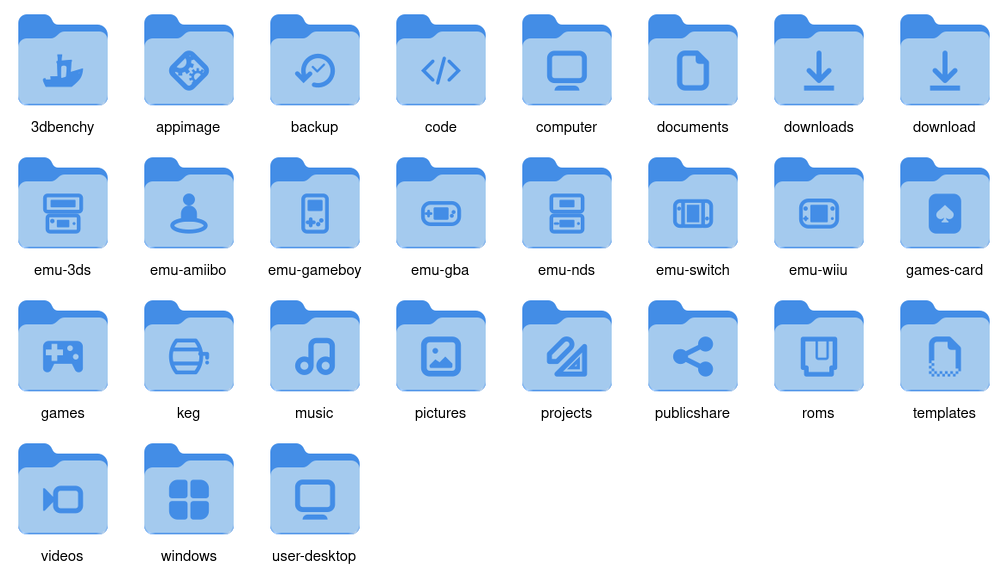
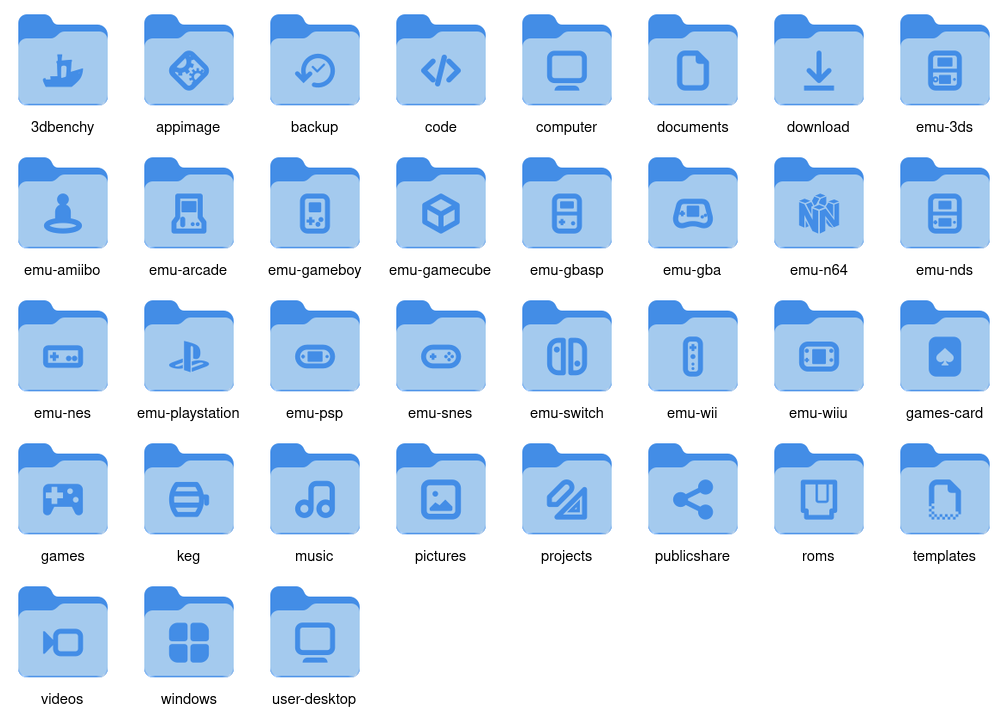
Redraw consoles at 2px, add NES/SNES/N64/GameCube/Wii/PlayStation/PSP/arcade/GBA SP, clip check
- all own glyphs use Adwaita's 2px stroke; own code brackets
- handhelds share one body style with a hinge line
- PlayStation (Simple Icons, CC0) and N64 (file-icons, ISC) logos
- build.py reads glyph viewBox and warns when a glyph is clipped
- drop unused folder-downloads alias

diff --git a/build.py b/build.py
@@ -33,7 +33,6 @@ ICONS = {
     "folder-pictures": "adw:folder-pictures",
     "folder-documents": "adw:folder-documents",
     "folder-download": "adw:folder-download",
-    "folder-downloads": "adw:folder-download",
     "user-desktop": "adw:video-display",          # Adwaita's own desktop glyph is a folder-in-folder
     "folder-templates": "adw:folder-templates",
     "folder-publicshare": "adw:folder-publicshare",
@@ -42,15 +41,25 @@ ICONS = {
     # consoles (original line drawings in glyphs/, no logos)
     "folder-emu-gameboy": "own:gameboy",
     "folder-emu-gba": "own:gba",
+    "folder-emu-gbasp": "own:gbasp",
     "folder-emu-nds": "own:nds",
     "folder-emu-3ds": "own:3ds",
     "folder-emu-switch": "own:switch",
     "folder-emu-wiiu": "own:wiiu",
     "folder-emu-amiibo": "own:amiibo",
+    "folder-emu-nes": "own:nes",
+    "folder-emu-snes": "own:snes",
+    "folder-emu-n64": "own:logo-n64",
+    "folder-emu-gamecube": "own:gamecube",
+    "folder-emu-wii": "own:wii",
+    "folder-emu-playstation": "own:logo-playstation",
+    "folder-emu-psp": "own:psp",
+    "folder-emu-arcade": "own:arcade",
+    "folder-code": "own:code",                    # MoreWaita's brackets are thinner than everything else
     "folder-keg": "own:keg",                      # Homebrew / Decky "homebrew" folder
     # MoreWaita icons re-scaled to match (MoreWaita draws emblems in a 32px box, Adwaita glyphs fill ~47px)
     **{n: f"mw:{n}" for n in [
-        "folder-projects", "folder-games", "folder-backup", "folder-3dbenchy", "folder-code",
+        "folder-projects", "folder-games", "folder-backup", "folder-3dbenchy",
         "folder-games-card", "folder-roms", "folder-computer", "folder-windows",
     ]},
 }
@@ -81,12 +90,15 @@ def glyph_markup(spec):
         f = hits[0]
     else:
         f = HERE / "glyphs" / f"{name}.svg"
-    inner = re.search(r"<svg[^>]*>(.*)</svg>", f.read_text(), re.S).group(1)
+    m = re.search(r"<svg([^>]*)>(.*)</svg>", f.read_text(), re.S)
+    vb = re.search(r'viewBox="([^"]+)"', m.group(1))
+    viewbox = vb.group(1) if vb else "0 0 16 16"  # logos come in other sizes; measuring rescales them
+    inner = m.group(2)
     inner = re.sub(r'\sfill="#[0-9a-fA-F]+"', "", inner)  # drop Adwaita's hardcoded #2e3436
     inner = inner.replace("currentColor", COLOR)
     x, y, s = GLYPH_BOX
-    # nested <svg> clips to the 16x16 box: some Adwaita glyphs hide extra drawings outside it
-    return (f'<svg xmlns="{SVGNS}" x="{x}" y="{y}" width="{s}" height="{s}" viewBox="0 0 16 16" '
+    # nested <svg> clips to the glyph's box: some Adwaita glyphs hide extra drawings outside it
+    return (f'<svg xmlns="{SVGNS}" x="{x}" y="{y}" width="{s}" height="{s}" viewBox="{viewbox}" '
             f'overflow="hidden"><g fill="{COLOR}">{inner}</g></svg>')
 
 
@@ -128,6 +140,11 @@ def main():
 
     icons = {n: emblem(s, a.morewaita) for n, s in ICONS.items()}
     boxes = {n: measure(*e) for n, e in icons.items()}
+    for n, (defs, body) in icons.items():  # warn about glyphs drawn past their grid (they get cut off)
+        if 'overflow="hidden"' in body and ICONS[n].startswith("own:"):
+            free = measure(defs, body.replace('overflow="hidden"', 'overflow="visible"'))
+            if any(abs(a - b) > 0.3 for a, b in zip(free, boxes[n])):
+                print(f"  WARNING {n}: {ICONS[n]} reaches past the 16px grid and is clipped", file=sys.stderr)
     target = max(boxes[REF][2:])
 
     places = a.out / "scalable/places"

diff --git a/CLAUDE.md b/CLAUDE.md
@@ -7,7 +7,7 @@ An add-on GNOME icon theme, `MoreWaita-Folders` (inherits MoreWaita → Adwaita 
 
 ## Files
 - `build.py`: generator. The `ICONS` dict is the only thing you usually edit.
-- `glyphs/*.svg`: own 16×16 emblems, drawn with `currentColor`. Strokes with a width of 1.5, round joins and caps.
+- `glyphs/*.svg`: own emblems on a 16×16 grid, drawn with `currentColor`, 2px strokes (Adwaita's weight), round joins and caps. Keep the outline inside 1..15, or the stroke gets clipped. `logo-*.svg` keep their original viewBox; `build.py` reads it.
 - `install.sh`: clones or updates MoreWaita into `.cache/`, builds, installs to `~/.local/share/icons/`, and sets gsettings. `--no-activate` skips gsettings.
 - `apply-folder-icons.sh` + `folders.local.conf` (the user's real list, gitignored) or `folders.conf` (a generic example): set `metadata::custom-icon-name` on folders via `gio`. Config lines are `<icon> <path>`, with the path relative to `$HOME`. Never put the user's personal folder names into the committed `folders.conf`.
 - `preview.sh`: writes `build/preview.png`, a contact sheet of all built icons. Look at it after every glyph change.
@@ -32,5 +32,5 @@ An add-on GNOME icon theme, `MoreWaita-Folders` (inherits MoreWaita → Adwaita 
 
 ## Don'ts
 - Don't commit MoreWaita or Adwaita files, or generated icons, apart from `docs/preview.png`. They're fetched or read at build time.
-- Don't use real console or company logos in `glyphs/`. Use simple device outlines only.
+- Logos (`glyphs/logo-*.svg`) only from permissively licensed sets (Simple Icons CC0, file-icons ISC, ...). Keep the source/licence/trademark comment at the top of the file. Everything else in `glyphs/` is drawn in-house.
 - Don't install system-wide, and don't touch `/usr`. Everything goes in `~/.local/share/icons`.

diff --git a/README.md b/README.md
@@ -53,4 +53,4 @@ rm -rf ~/.local/share/icons/MoreWaita-Folders ~/.local/share/icons/MoreWaita
 
 ## License
 
-GPL-3.0, like MoreWaita. Uses MoreWaita's folder shape and emblems, plus Adwaita symbolic glyphs (CC-BY-SA 3.0 / LGPL-3.0).
+GPL-3.0, like MoreWaita. Uses MoreWaita's folder shape and emblems, plus Adwaita symbolic glyphs (CC-BY-SA 3.0 / LGPL-3.0). The PlayStation logo is from Simple Icons (CC0), the N64 logo from file-icons (ISC, © John Gardner); both are trademarks of their owners.
